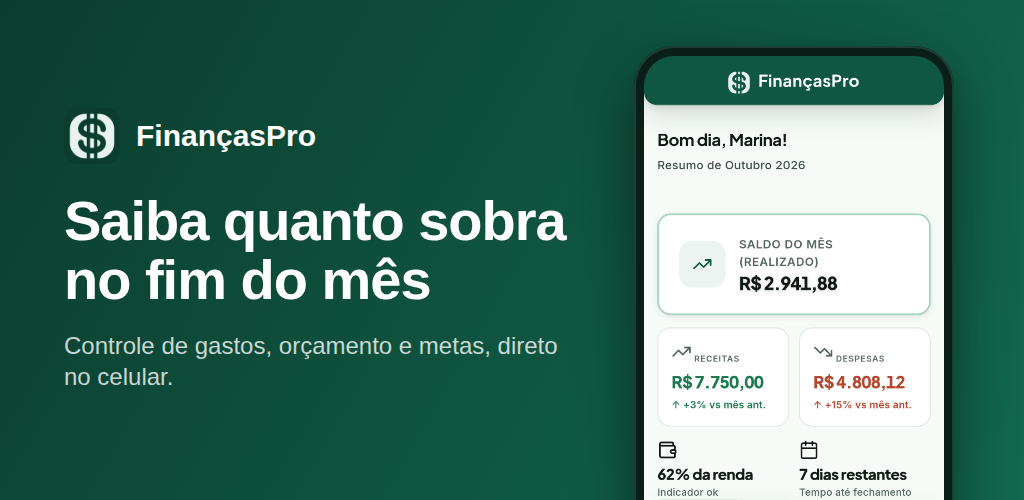
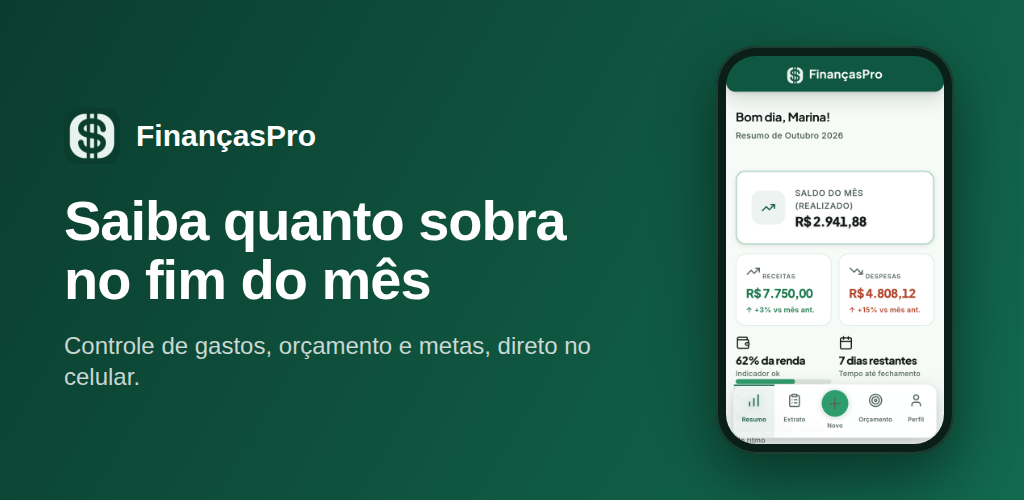
feat(play): conteúdo promocional para 13º, Black Friday, ano novo e IR
Etapa 3 da auditoria de ASO: cards de conteúdo promocional na própria
Play, nas datas em que mais gente procura controle financeiro.
docs/play-store/conteudo-promocional.md traz quando publicar e os textos
(nome, descrição curta e longa), sem promessa que o app não cumpre; as
quatro imagens 1920x1080 saem do gerador da vitrine, a partir das telas
reais. O gráfico de destaque passa a usar o mesmo desenho, com o celular
inteiro na imagem; a imagem de compartilhamento do site acompanha.

Claude-Session: https://claude.ai/code/session_01TfnVkGqphuteFTWYUNj8La

Changed region(s): [[0.5312, 0.09, 0.9375, 1.0], [0.0625, 0.72, 0.1875, 0.78], [0.9062, 0.45, 0.9375, 0.48]]

diff --git a/tests/vitrine-play.test.js b/tests/vitrine-play.test.js
@@ -10,7 +10,7 @@
  */
 const fs = require('fs');
 const path = require('path');
-const { CAPTURAS, FORMATOS } = require('../scripts/gerar-vitrine-play.cjs');
+const { CAPTURAS, FORMATOS, PROMOCIONAIS } = require('../scripts/gerar-vitrine-play.cjs');
 const { dadosDaVitrine } = require('../scripts/lib/vitrine-dados.cjs');
 
 const root = path.join(__dirname, '..');
@@ -73,6 +73,21 @@ describe('Vitrine da Play', function() {
     FORMATOS.forEach(function(f) {
       expect(f.tela.largura * f.tela.escala).toBe(f.saida.largura);
       expect(f.saida.altura).toBe(1920);
+    });
+  });
+  test('imagens do conteúdo promocional em 16:9 e textos sem termo proibido', function() {
+    function tamanhoPng(arquivo) {
+      const b = fs.readFileSync(arquivo);
+      return { w: b.readUInt32BE(16), h: b.readUInt32BE(20) };
+    }
+    const guia = fs.readFileSync(path.join(root, 'docs/play-store/conteudo-promocional.md'), 'utf8');
+    expect(PROMOCIONAIS.length).toBeGreaterThanOrEqual(3);
+    PROMOCIONAIS.forEach(function(p) {
+      const arq = p.arquivo + '-1920x1080.png';
+      expect(tamanhoPng(path.join(root, 'docs/play-store/vitrine/promocional', arq))).toEqual({ w: 1920, h: 1080 });
+      expect(CAPTURAS.map(function(c) { return c.arquivo; })).toContain(p.tela);
+      expect(p.titulo + ' ' + p.apoio).not.toMatch(PROIBIDO);
+      expect(guia).toContain(arq);
     });
   });
 });

diff --git a/docs/play-store/conteudo-promocional.md b/docs/play-store/conteudo-promocional.md
@@ -1,0 +1,69 @@
+# Conteúdo promocional na Play: calendário e textos
+
+Etapa 3 da auditoria de ASO de 04/out
+(`docs/auditorias/auditoria-play-store-aso-2026-10-04.html`): o Play Console
+deixa publicar **conteúdo promocional** (cards de eventos e novidades que
+aparecem na própria loja, na busca e na página do app). Usado nas datas em
+que mais gente procura controle financeiro, é visibilidade sem anúncio pago.
+
+Onde: *Play Console → Crescimento → Conteúdo promocional → Criar*. O conteúdo
+passa por revisão: envie com antecedência. Confira no Console os limites de
+caracteres do ano (os textos abaixo são curtos de propósito).
+
+Imagens 1920×1080 prontas em `docs/play-store/vitrine/promocional/`, geradas
+por `npm run vitrine:gerar` a partir das telas reais.
+
+Regras que valem aqui também: nada de "grátis por tempo limitado", "baixe
+agora" ou promessa que o app não cumpre; o app não lê conta bancária e pede
+uma conta (grátis) para usar.
+
+## Calendário
+
+| Quando publicar | Evento | Imagem |
+|---|---|---|
+| 1º a 30 de novembro (1ª parcela do 13º) e 1º a 20 de dezembro (2ª) | 13º salário | `promo-13-salario-1920x1080.png` |
+| Semana antes da Black Friday até o dia seguinte (fim de novembro) | Black Friday | `promo-black-friday-1920x1080.png` |
+| 26 de dezembro a 31 de janeiro | Ano novo | `promo-ano-novo-1920x1080.png` |
+| Período de entrega da declaração do IR (confira as datas da Receita no ano; costuma ser de março a maio) | Imposto de renda | `promo-imposto-de-renda-1920x1080.png` |
+
+## Textos
+
+### 13º salário
+- **Tipo:** evento de duração limitada (ou "oferta", se houver desconto real no Pro).
+- **Nome:** Seu 13º com destino certo
+- **Descrição curta:** Separe uma parte do 13º para as suas metas antes de gastar.
+- **Descrição:** O 13º chega e some em poucos dias? No FinançasPro você cria uma
+  meta (reserva de emergência, viagem, quitar o cartão), registra o aporte e
+  acompanha quanto falta e quando você chega lá.
+
+### Black Friday
+- **Tipo:** evento de duração limitada.
+- **Nome:** Antes de comprar, veja a fatura
+- **Descrição curta:** Saiba quanto do cartão já está comprometido antes das compras.
+- **Descrição:** Parcelas de compras antigas continuam na fatura dos próximos
+  meses. No FinançasPro você vê a fatura mês a mês, com as parcelas, e quanto do
+  limite já está comprometido, antes de decidir a próxima compra.
+
+### Ano novo
+- **Tipo:** evento de duração limitada.
+- **Nome:** Ano novo, orçamento novo
+- **Descrição curta:** Comece o ano com a regra 50/30/20 pronta no celular.
+- **Descrição:** Organizar as finanças está na sua lista? O FinançasPro já vem com
+  a regra 50/30/20: você anota os gastos e o app mostra quanto foi para
+  necessidades, desejos e poupança, com aviso quando uma categoria chega perto
+  do limite.
+
+### Imposto de renda
+- **Tipo:** evento de duração limitada.
+- **Nome:** O ano inteiro anotado
+- **Descrição curta:** Encontre qualquer gasto do ano e exporte em CSV.
+- **Descrição:** Na hora da declaração, ajuda ter tudo registrado. No
+  FinançasPro você busca e filtra os lançamentos por mês, categoria e conta e
+  exporta em CSV para a planilha (o app não faz a declaração nem envia nada à
+  Receita).
+
+## Depois
+
+Compare, no Console, a taxa de conversão e as instalações das semanas com
+evento contra as semanas sem. O que não trouxer resultado sai do calendário do
+ano seguinte.
